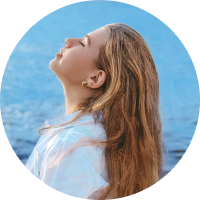
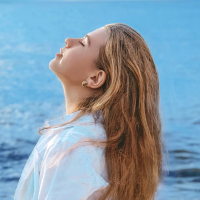
Slicing home (header)

diff --git a/lib/ui/pages/home_page.dart b/lib/ui/pages/home_page.dart
@@ -1,0 +1,61 @@
+import 'package:airplane/shared/theme.dart';
+import 'package:flutter/material.dart';
+
+class HomePage extends StatelessWidget {
+  const HomePage({ Key? key }) : super(key: key);
+
+  @override
+  Widget build(BuildContext context) {
+
+    Widget header(){
+      return Container(
+        margin: EdgeInsets.only(
+          left: defaultMargin,
+          right: defaultMargin,
+          top: 30,
+        ),
+        child: Row(
+          children: [
+            Expanded(
+              child: Column(
+                crossAxisAlignment: CrossAxisAlignment.start,
+                children: [
+                  Text(
+                    'Howdy,\nKezia Anne',
+                    style: blackTextStyle.copyWith(
+                      fontSize: 24,
+                      fontWeight: semiBold,
+                    ),
+                    overflow: TextOverflow.ellipsis,
+                  ),
+                  SizedBox(height: 6),
+                  Text(
+                    'Where to fly today?',
+                    style: greyTextStyle.copyWith(
+                      fontSize: 16,
+                      fontWeight: light,
+                    ),
+                  ),
+                ],
+              ),
+            ),
+            Container(
+              width: 60,
+              height: 60,
+              decoration: BoxDecoration(
+                shape: BoxShape.circle,
+                image: DecorationImage(image: AssetImage('assets/img_profile.png'))
+              ),
+            )
+          ],
+        ),
+      );
+    }
+
+    return ListView(
+      children: [
+        header(),
+      ]
+    );
+  }
+}

diff --git a/lib/ui/pages/main_page.dart b/lib/ui/pages/main_page.dart
@@ -1,4 +1,5 @@
 import 'package:airplane/shared/theme.dart';
+import 'package:airplane/ui/pages/home_page.dart';
 import 'package:airplane/ui/widgets/custom_bottom_navigation_item.dart';
 import 'package:flutter/material.dart';
 
@@ -7,6 +8,10 @@ class MainPage extends StatelessWidget {
 
   @override
   Widget build(BuildContext context) {
+    Widget buildContent(){
+      return HomePage();
+    }
+
     Widget customBottomNavigation(){
       return Align(
         alignment: Alignment.bottomCenter,
@@ -44,7 +49,7 @@ class MainPage extends StatelessWidget {
       backgroundColor: kBackgroundColor,
       body: Stack(
         children: [
-          Text('Main Page'),
+          buildContent(),
           customBottomNavigation(),
         ],
       ),
